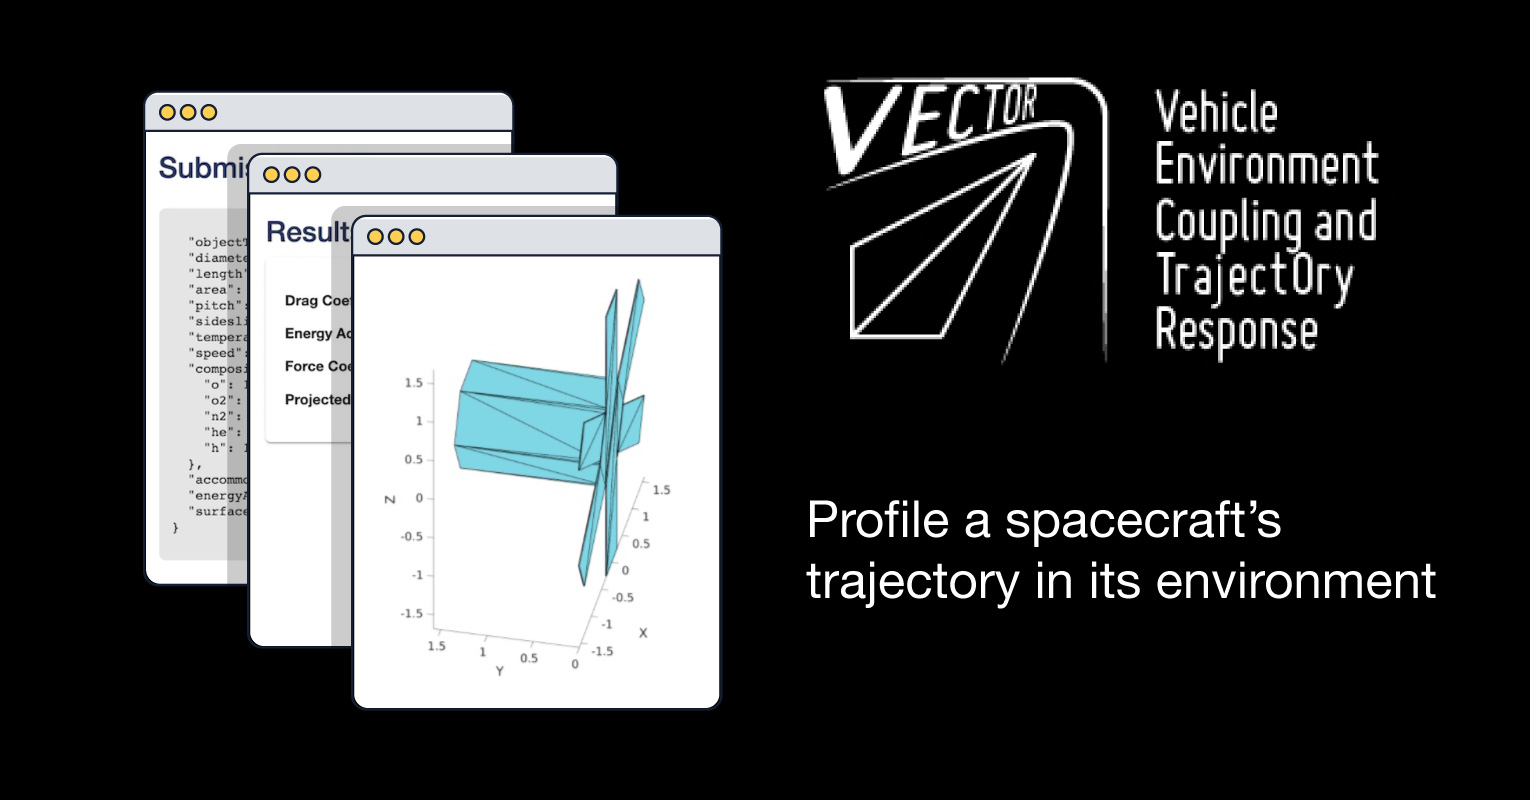
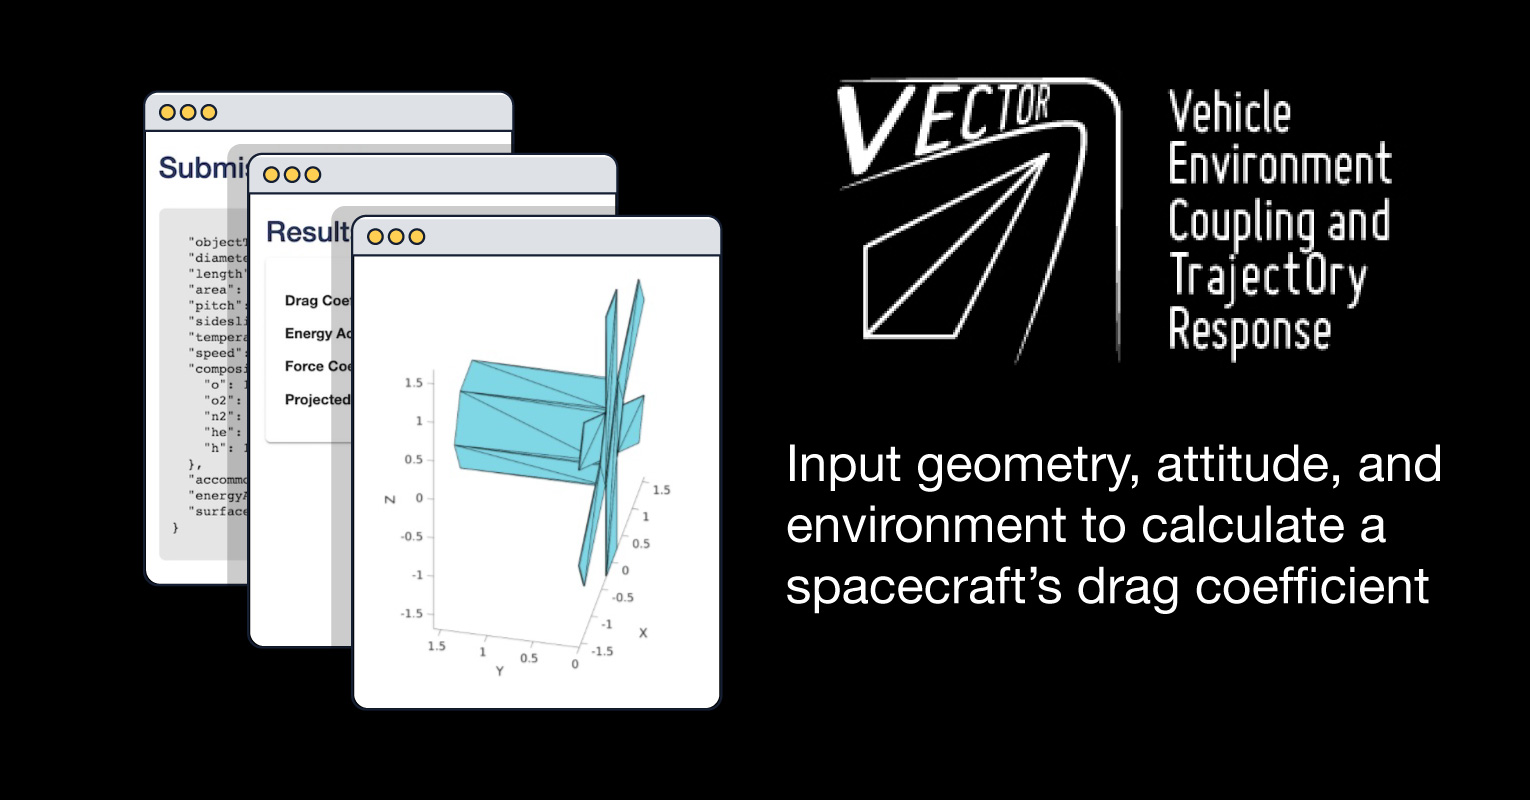
update tagline

Changed region(s): [[0.5222, 0.0938, 0.9216, 0.4375], [0.4915, 0.5625, 0.9523, 0.7812]]

diff --git a/src/index.html b/src/index.html
@@ -10,7 +10,7 @@
     <meta property="og:title" content="VECTOR—Vehicle Environment Coupling and TrajectOry Response">
     <meta property="og:description" content="Calculate the coefficient of drag, projected area, and force coefficient from a given set of input parameters">
     <meta property="og:image" content="https://swx-trec.com${NGINX_CONTEXT_ROOT}assets/images/og-preview.jpg">
-    <meta property="og:image:alt" content="Profile a spacecraft's trajectory in its environment">
+    <meta property="og:image:alt" content="Input geometry, attitude, and environment to calculate a spacecraft’s drag coefficient">
     <meta property="og:image:width" content="1530">
     <meta property="og:image:height" content="800">
     <meta property="og:type" content="website">
